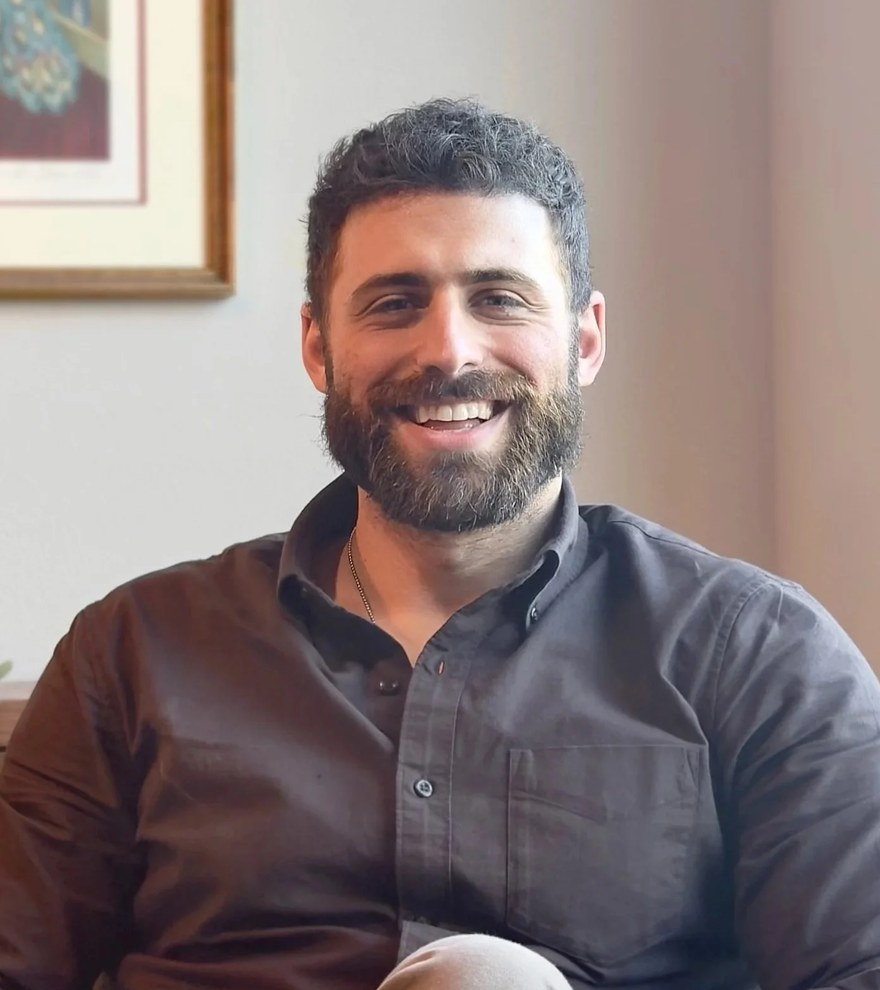
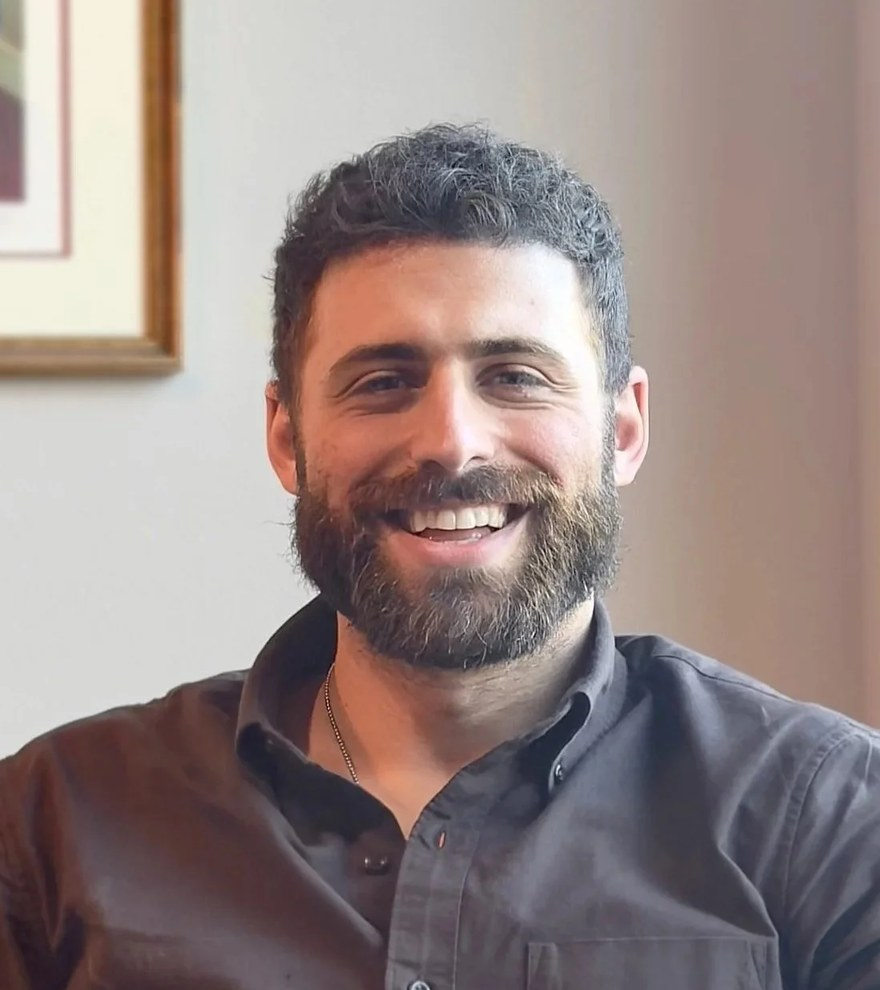
Back to the closer head-and-shoulders framing

diff --git a/education.html b/education.html
@@ -133,7 +133,7 @@
                 </path>
               </g>
             </g>
-            <image href="assets/img/max-levine.jpg?v=7" width="880" height="990"
+            <image href="assets/img/max-levine.jpg?v=8" width="880" height="990"
                    preserveAspectRatio="xMidYMid slice" clip-path="url(#gm-pA)"/>
           </svg></a>
         </figure>

diff --git a/education-psychodynamic-capacities.html b/education-psychodynamic-capacities.html
@@ -172,7 +172,7 @@
                 </path>
               </g>
             </g>
-            <image href="assets/img/max-levine.jpg?v=7" width="880" height="990"
+            <image href="assets/img/max-levine.jpg?v=8" width="880" height="990"
                    preserveAspectRatio="xMidYMid slice" clip-path="url(#gm-pA)"/>
           </svg>
         </figure>
